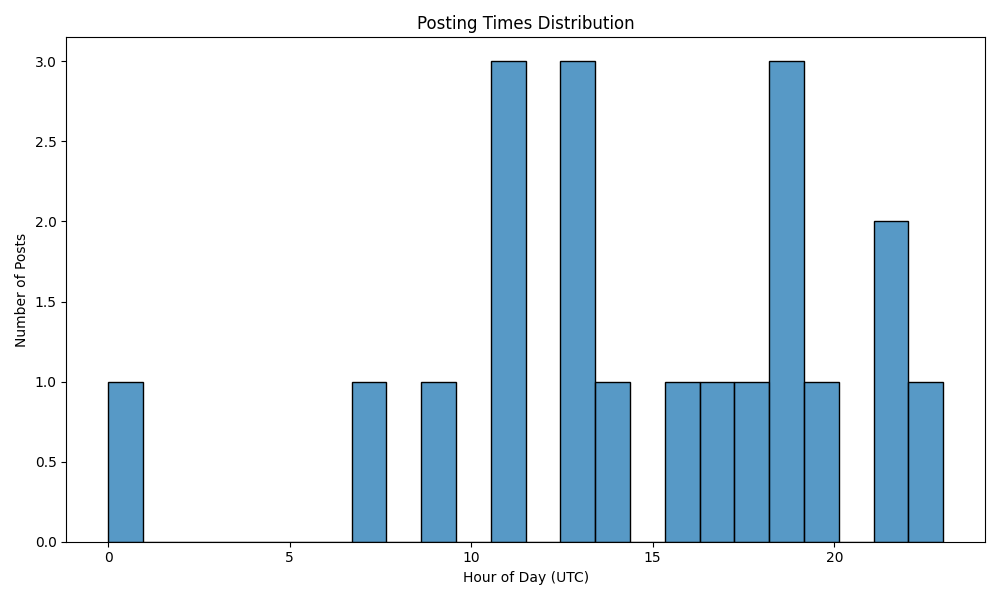
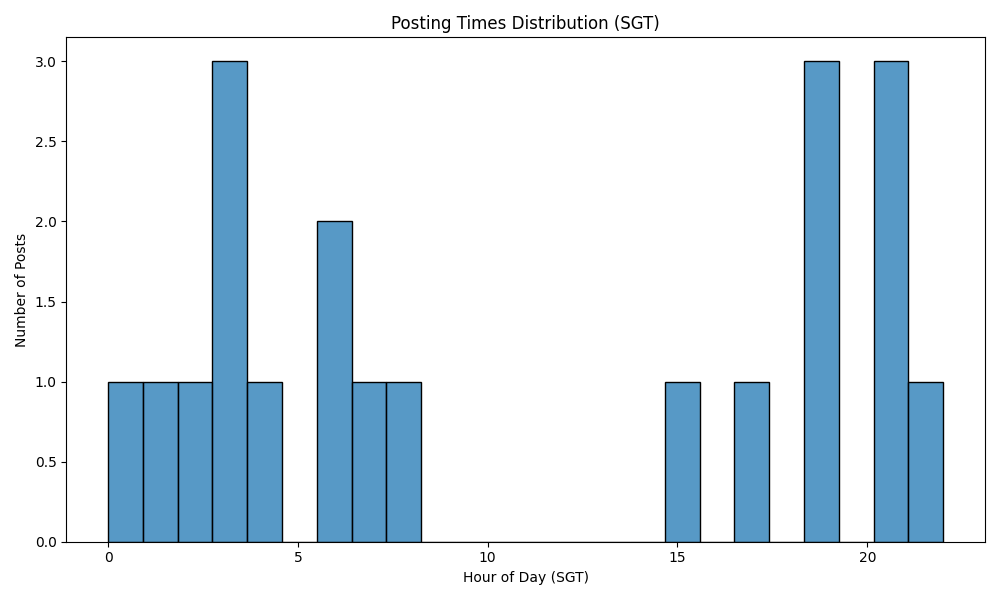
Changed all reports to SGT

diff --git a/crawler.py b/crawler.py
@@ -1,7 +1,7 @@
 #!/usr/bin/env python3
 # -*- coding: utf-8 -*-
 
-import praw
+import asyncpraw
 from pymongo import MongoClient
 from datetime import datetime, timedelta, timezone
 from dotenv import load_dotenv
@@ -40,13 +40,13 @@ def is_recent_crawl(db):
     print("No recent crawl detected.")
     return False
 
-def crawl_top_posts(reddit, db):
+async def crawl_top_posts(reddit, db):
     """ Crawl the top 20 posts from r/memes in the past 24 hours """
-    subreddit = reddit.subreddit("memes")
+    subreddit = await reddit.subreddit("memes")
     top_posts = subreddit.top(time_filter="day", limit=20)
 
     post_data = []
-    for post in top_posts:
+    async for post in top_posts:
         post_entry = {
             "_id": str(uuid.uuid4()),  # Generate a new unique identifier
             "reddit_id": post.id,  # Store the Reddit post ID separately
@@ -93,13 +93,15 @@ def generate_text_report(post_data, file_path="top_memes_report.txt"):
 
 def generate_csv_report(post_data, file_path="top_memes_report.csv"):
     """ Generate and save a CSV report of the top 20 posts """
+    sg_timezone = pytz.timezone("Asia/Singapore")
     with open(file_path, mode="w", newline="", encoding="utf-8") as file:
         writer = csv.writer(file)
         # Write the header
         writer.writerow(["Title", "URL", "Upvotes", "Comments", "Posted On"])
         # Write data rows
         for post in post_data:
-            writer.writerow([post['title'], post['url'], post['upvotes'], post['comments_count'], post['created_utc']])
+            created_sg_time = post['created_utc'].astimezone(sg_timezone).strftime('%Y-%m-%d %H:%M:%S %Z')
+            writer.writerow([post['title'], post['url'], post['upvotes'], post['comments_count'], created_sg_time])
     print(f"CSV report saved as '{file_path}'.")
     return file_path
 
@@ -107,7 +109,12 @@ def generate_charts(post_data):
     """ Generate and save charts for analysis """
     # Convert post_data to a DataFrame
     import pandas as pd
+    sg_timezone = pytz.timezone("Asia/Singapore")
     df = pd.DataFrame(post_data)
+
+    # Convert created_utc to Singapore time
+    df['created_sg'] = df['created_utc'].apply(lambda x: x.astimezone(sg_timezone))
+    df['created_hour_sg'] = df['created_sg'].dt.hour
 
     # Engagement metrics (upvotes and comments)
     plt.figure(figsize=(10, 6))
@@ -129,11 +136,10 @@ def generate_charts(post_data):
     plt.close()
 
     # Posting times for patterns
-    df['created_hour'] = df['created_utc'].dt.hour
     plt.figure(figsize=(10, 6))
-    sns.histplot(df['created_hour'], bins=24, kde=False)
-    plt.title('Posting Times Distribution')
-    plt.xlabel('Hour of Day (UTC)')
+    sns.histplot(df['created_hour_sg'], bins=24, kde=False)
+    plt.title('Posting Times Distribution (SGT)')
+    plt.xlabel('Hour of Day (SGT)')
     plt.ylabel('Number of Posts')
     plt.tight_layout()
     plt.savefig('posting_times_chart.png')
@@ -160,7 +166,7 @@ async def run_crawler(update: Update, context: CallbackContext):
     try:
         chat_id = update.effective_chat.id
         print(f"Starting crawler for chat_id: {chat_id}")
-        reddit = praw.Reddit(
+        reddit = asyncpraw.Reddit(
             client_id=os.environ.get("REDDIT_CLIENT_ID"),
             client_secret=os.environ.get("REDDIT_CLIENT_SECRET"),
             user_agent=os.environ.get("REDDIT_USER_AGENT")
@@ -168,6 +174,7 @@ async def run_crawler(update: Update, context: CallbackContext):
         print("Reddit instance created")
         db = connect_to_mongo()
         if db is not None:
+            generate_new_reports = False
             if is_recent_crawl(db):
                 print("Recent crawl detected. Skipping new crawl.")
                 report_file_paths = ["top_memes_report.txt", "top_memes_report.csv"]
@@ -175,17 +182,19 @@ async def run_crawler(update: Update, context: CallbackContext):
                 for report_file_path in report_file_paths:
                     if not os.path.exists(report_file_path):
                         print(f"Report file '{report_file_path}' does not exist. Generating new report.")
-                        top_posts = crawl_top_posts(reddit, db)
-                        if report_file_path.endswith(".txt"):
-                            generate_text_report(top_posts, report_file_path)
-                        elif report_file_path.endswith(".csv"):
-                            generate_csv_report(top_posts, report_file_path)
+                        generate_new_reports = True
+                        break
                 chart_files = ["upvotes_chart.png", "comments_chart.png", "posting_times_chart.png"]
-                chart_captions = ["Top 20 Memes by Upvotes", "Top 20 Memes by Comments", "Posting Times Distribution"]
-                await send_combined_report_via_telegram(chat_id, report_file_paths + chart_files, captions + chart_captions)
-                return
+                for chart_file in chart_files:
+                    if not os.path.exists(chart_file):
+                        print(f"Chart file '{chart_file}' does not exist. Generating new charts.")
+                        generate_new_reports = True
+                        break
+                if not generate_new_reports:
+                    await send_combined_report_via_telegram(chat_id, report_file_paths + chart_files, captions + chart_captions)
+                    return
 
-            top_posts = crawl_top_posts(reddit, db)
+            top_posts = await crawl_top_posts(reddit, db)
             text_report_path = generate_text_report(top_posts)
             csv_report_path = generate_csv_report(top_posts)
             generate_charts(top_posts)
